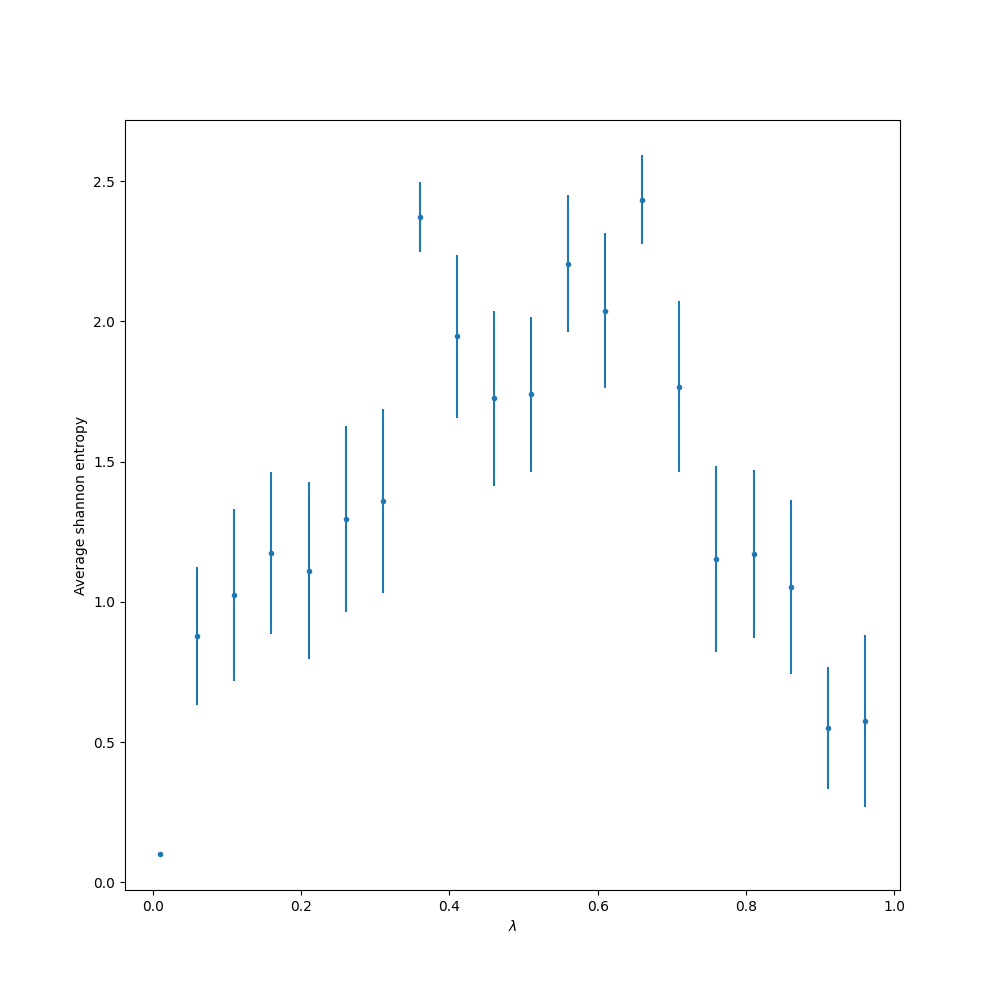
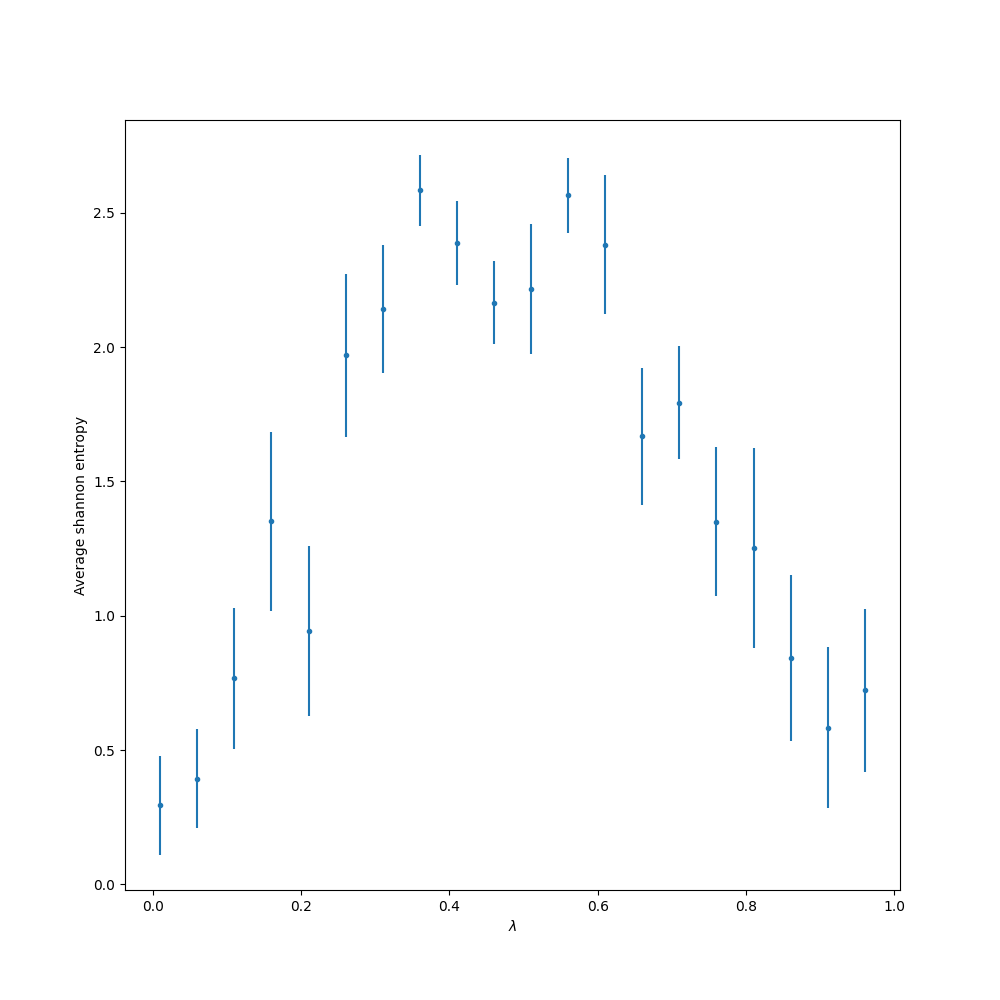
cleaned up some double code with new function

diff --git a/ca.py b/ca.py
@@ -20,8 +20,6 @@ this file. The plot is colored in with data from the file: "rule_class_wolfram.c
 import numpy as np
 import matplotlib.pyplot as plt
 import matplotlib
-from numpy.random import random
-import sys
 from pyics import Model
 
 
@@ -66,8 +64,9 @@ class CASim(Model):
     def setter_rule(self, val):
         """Setter for the rule parameter, clipping its value between 0 and the
         maximum possible rule number."""
-        rule_set_size = self.k ** (2 * self.r + 1)
-        max_rule_number = self.k**rule_set_size
+
+        self.rule_set_size = self.k ** (2 * self.r + 1)
+        max_rule_number = self.k**self.rule_set_size
         return max(0, min(val, max_rule_number - 1))
 
     def build_rule_set(self):
@@ -79,40 +78,35 @@ class CASim(Model):
         [2, 2, 2] -> 0 and [0, 0, 1] -> 2."""
 
         new_base = decimal_to_base_k(self.rule, self.k, self.r)
-        zeros = self.k ** (2 * self.r + 1) - len(new_base)
+        zeros = self.rule_set_size - len(new_base)
         rule_set = [0 for _ in range(zeros)] + new_base
-        configurations = configs(self.r, self.k)
-
-        for config, rule in zip(configurations, rule_set):
-            self.rule_dict[f"{config}"] = rule
+        self.make_rule_dict(rule_set)
 
     def build_langton_set_rt(self, lamb):
-        length = self.k ** (2 * self.r + 1)
         rule_set = []
-        for i in range(length):
+        for _ in range(self.rule_set_size):
             g = np.random.rand()
             if g > lamb:
                 rule_set.append(0)
             else:
                 rule_set.append(np.random.randint(1, self.k))
 
-        configurations = configs(self.r, self.k)
+        self.make_rule_dict(rule_set)
 
-        for config, rule in zip(configurations, rule_set):
-            self.rule_dict[f"{config}"] = rule
-
-    def build_langton_set_twt(self, length, rule_set, index_list):
+    def build_langton_set_twt(self, rule_set, index_list):
         index = np.random.choice(index_list)
         index_list.remove(index)
         rule_set[index] = 1
-
-        configurations = configs(self.r, self.k)
-
         lamb = (len(rule_set) - len(index_list)) / len(rule_set)
-        for config, rule in zip(configurations, rule_set):
-            self.rule_dict[f"{config}"] = rule
+
+        self.make_rule_dict(rule_set)
 
         return lamb
+
+    def make_rule_dict(self, rule_set):
+        configurations = configs(self.r, self.k)
+        for config, rule in zip(configurations, rule_set):
+            self.rule_dict[f"{config}"] = rule
 
     def check_rule(self, inp):
         """Returns the new state based on the input states.
@@ -128,23 +122,23 @@ class CASim(Model):
 
         return [np.random.randint(0, self.k) for _ in range(self.width)]
 
-    def reset(self, random=False, lamb=None, walkthrough=False):
+    def reset(self, rule_set_mode="rule_number", lamb=None):
         """Initializes the configuration of the cells and converts the entered
         rule number to a rule set."""
 
         self.t = 0
         self.config = np.zeros([self.height, self.width])
         self.config[0, :] = self.setup_initial_row()
-        if random:
-            self.build_langton_set_rt(lamb)
 
-        elif walkthrough:
-            length = self.k ** (2 * self.r + 1)
-            rule_set = [0] * length
-            index_list = np.linspace(0, length)
-            self.lamb = self.build_langton_set_twt(lamb, length, rule_set, index_list)
-        else:
-            self.build_rule_set()
+        match rule_set_mode:
+            case "rule_number":
+                self.build_rule_set()
+            case "random":
+                self.build_langton_set_rt(lamb)
+            case "walkthrough":
+                rule_set = [0] * self.rule_set_size
+                index_list = np.linspace(0, self.rule_set_size)
+                self.lamb = self.build_langton_set_twt(lamb, rule_set, index_list)
 
     def draw(self):
         """Draws the current state of the grid."""
@@ -167,6 +161,7 @@ class CASim(Model):
     def step(self):
         """Performs a single step of the simulation by advancing time (and thus
         row) and applying the rule to determine the state of the cells."""
+
         self.t += 1
         if self.t >= self.height:
             return True

diff --git a/langton_test.py b/langton_test.py
@@ -19,9 +19,9 @@ class CALangtonTest:
         self.errors = []
         self.lambdas = []
 
-    def run(self, random=False, lamb=None, walkthrough=False):
+    def run(self, mode, lamb):
         t = 0
-        self.sim.reset(random, lamb, walkthrough)
+        self.sim.reset(mode, lamb)
         while t < self.sim.height:
             self.sim.step()
             t += 1
@@ -30,7 +30,7 @@ class CALangtonTest:
         for lamb in np.arange(0.01, 1, 1 / steps):
             shannons = []
             for _ in range(N):
-                self.run(lamb=lamb, random=True)
+                self.run(mode="random", lamb=lamb)
                 shannons.append(self.shannon(self.sim.config))
 
             self.average_shannons.append(np.mean(shannons))
